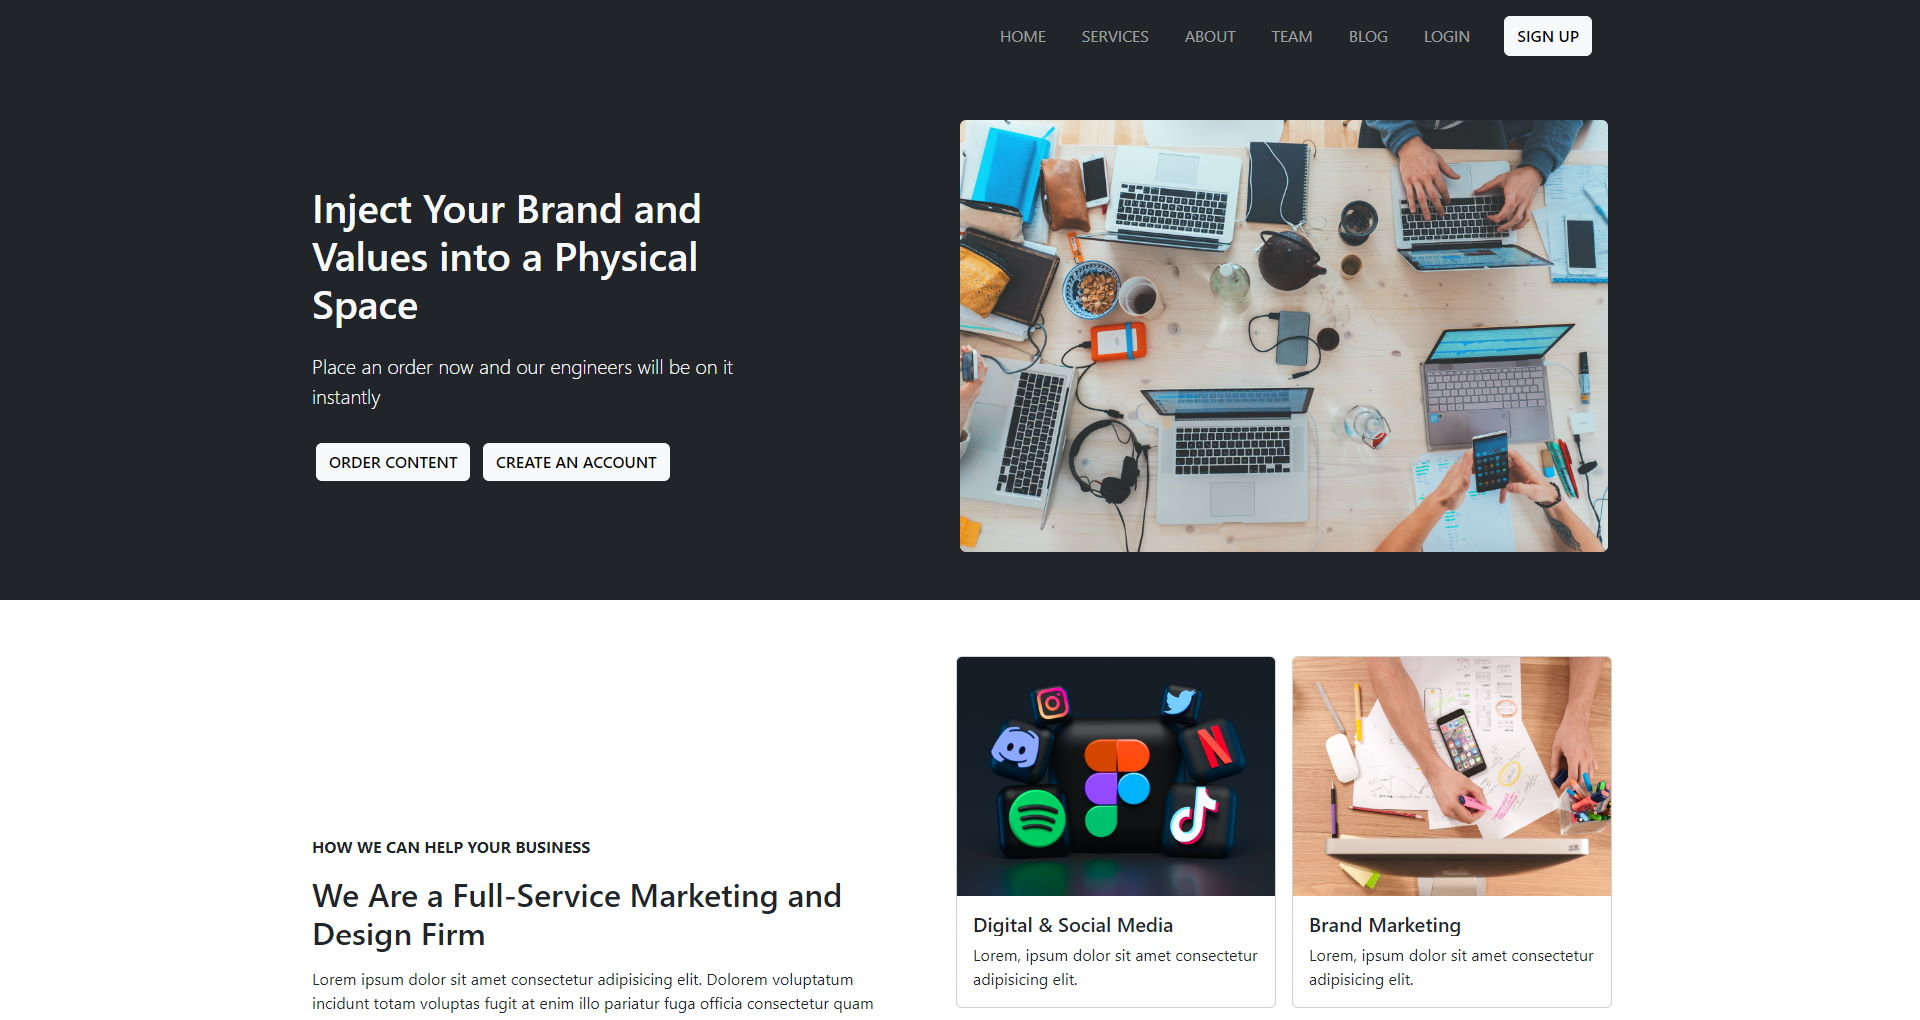
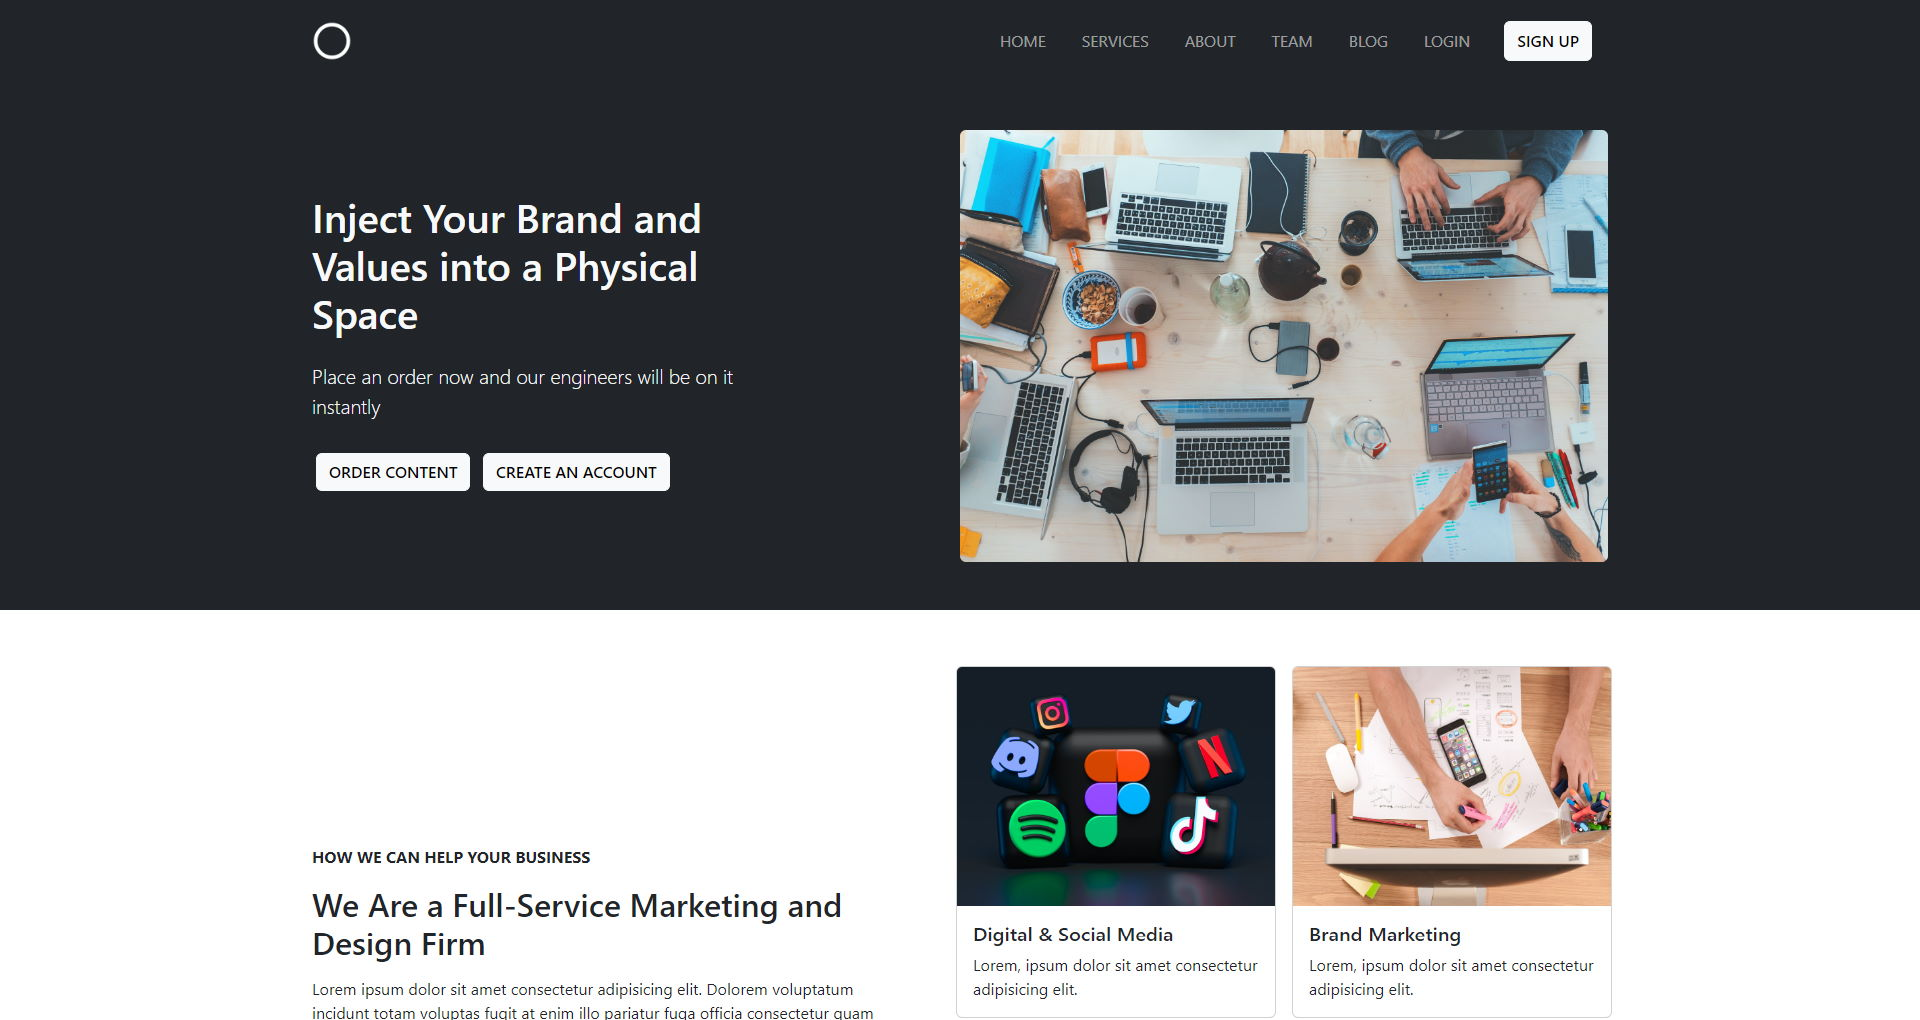
changed layout, added navbar

diff --git a/index.html b/index.html
@@ -8,11 +8,52 @@
     <link rel="preconnect" href="https://fonts.googleapis.com">
     <link rel="preconnect" href="https://fonts.gstatic.com" crossorigin>
     <link href="https://fonts.googleapis.com/css2?family=Roboto:wght@300;400;500;700&display=swap" rel="stylesheet">
+    <link rel="stylesheet" href="https://cdn.jsdelivr.net/npm/bootstrap-icons@1.9.1/font/bootstrap-icons.css">
     <link rel="stylesheet" href="style.css">
-    <base target="_blank">
+    <!-- <base target="_blank"> -->
     <link rel="shortcut icon" href="img/favicon.png" type="image/x-icon">
   </head>
   <body>
+
+    <nav class="navbar navbar-expand-lg fixed-top">
+        <div class="container-fluid">
+          <!-- <a class="navbar-brand" href="#">Navbar</a> -->
+          <button onclick="changeBG()" class="navbar-toggler bg-light" type="button" data-bs-toggle="collapse" data-bs-target="#navbarSupportedContent" aria-controls="navbarSupportedContent" aria-expanded="false" aria-label="Toggle navigation">
+            <span class="navbar-toggler-icon"></span>
+          </button>
+          <div class="collapse navbar-collapse" id="navbarSupportedContent">
+            <ul class="navbar-nav me-auto mb-2 mb-lg-0">
+              <li class="nav-item">
+                <a class="nav-link text-white" aria-current="page" href="#">Home</a>
+              </li>
+              <li class="nav-item">
+                <a class="nav-link text-white" href="#about">About</a>
+              </li>
+              <li class="nav-item">
+                <a class="nav-link text-white" href="#portfolio">Portfolio</a>
+              </li>
+              <li class="nav-item">
+                <a class="nav-link text-white" href="#contact">Contact</a>
+              </li>
+              <!-- <li class="nav-item dropdown">
+                <a class="nav-link dropdown-toggle" href="#" role="button" data-bs-toggle="dropdown" aria-expanded="false">
+                  Dropdown
+                </a>
+                <ul class="dropdown-menu">
+                  <li><a class="dropdown-item" href="#">Action</a></li>
+                  <li><a class="dropdown-item" href="#">Another action</a></li>
+                  <li><hr class="dropdown-divider"></li>
+                  <li><a class="dropdown-item" href="#">Something else here</a></li>
+                </ul>
+              </li> -->
+              <!-- <li class="nav-item">
+                <a class="nav-link disabled">Disabled</a>
+              </li> -->
+            </ul>
+          </div>
+        </div>
+    </nav>
+
     <section id="intro" class="py-5">
         <div class="container">
             <h1 class="text-center">Marko Vuković</h1>
@@ -37,49 +78,68 @@
     <section id="portfolio" class="py-5">
         <div class="container">
             <h2 class="text-center">Portfolio</h2>
+            <div id="carouselExampleControls" class="carousel slide carousel-fade" data-bs-ride="carousel">
+                <div class="carousel-inner">
+                  <div class="carousel-item active">
+                    <img src="img/marketing-crop.jpg" class="d-block w-75 mx-auto" alt="...">
+                    <div class="w-75 mx-auto py-3 infobox">
+                        <h3 class="text-center">Marketing Agency</h3>
+                        <p class="text-center">Built with HTML/CSS/Bootstrap 5</p>
+                        <button class="btn btn-primary d-block mx-auto"><a class="text-light" href="https://marketing-agency-circle.github.io/">Link to website</a></button>
+                    </div>
+                  </div>
+                  <div class="carousel-item">
+                    <img src="img/restaurant-crop.jpg" class="d-block w-75 mx-auto" alt="...">
+                    <div class="w-75 mx-auto py-3 infobox">
+                        <h3 class="text-center">Restaurant Fresco</h3>
+                        <p class="text-center">Built with Wordpress and Elementor</p>
+                        <button class="btn btn-primary d-block mx-auto"><a class="text-light" href="img/restaurant.jpg">Link to screenshot</a></button>
+                    </div>
+                  </div>
+                  <div class="carousel-item">
+                    <img src="img/diamond-crop.jpg" class="d-block w-75 mx-auto" alt="...">
+                    <div class="w-75 mx-auto py-3 infobox">
+                        <h3 class="text-center">Car Wash Diamond</h3>
+                        <p class="text-center">Built with Wordpress and Elementor</p>
+                        <button class="btn btn-primary d-block mx-auto"><a class="text-light" href="img/diamond.jpg">Link to screenshot</a></button>
+                    </div>
+                  </div>
+                  <div class="carousel-item">
+                    <img src="img/lg-crop.jpg" class="d-block w-75 mx-auto" alt="...">
+                    <div class="w-75 mx-auto py-3 infobox">
+                        <h3 class="text-center">Level Ground Gym</h3>
+                        <p class="text-center">Built with HTML/CSS</p>
+                        <button class="btn btn-primary d-block mx-auto"><a class="text-light" href="img/Level-Ground.jpg">Link to screenshot</a></button>
+                    </div>
+                  </div>
+                </div>
+                <button class="carousel-control-prev" type="button" data-bs-target="#carouselExampleControls" data-bs-slide="prev">
+                  <span class="carousel-control-prev-icon" aria-hidden="true"></span>
+                  <span class="visually-hidden">Previous</span>
+                </button>
+                <button class="carousel-control-next" type="button" data-bs-target="#carouselExampleControls" data-bs-slide="next">
+                  <span class="carousel-control-next-icon" aria-hidden="true"></span>
+                  <span class="visually-hidden">Next</span>
+                </button>
+              </div>
+        </div>
+    </section>
 
-            <div class="row justify-content-between align-items-center border bg-white">
-                <div class="col-lg-8">
-                    <img src="img/marketing-crop.jpg" alt="" class="img-fluid p-3">
-                </div>
-                <div class="col-lg-4 p-5 info text-dark text-center">
-                    <h3>Marketing Agency</h3>
-                    <p>Built with HTML/CSS/Bootstrap 5</p>
-                    <button class="btn btn-primary"><a class="text-light" href="https://marketing-agency-circle.github.io/">Link to website</a></button>
-                </div>
-            </div>
-            <div class="row justify-content-between align-items-center border bg-white">
-                <div class="col-lg-8">
-                    <img src="img/restaurant-crop.jpg" alt="" class="img-fluid p-3">
-                </div>
-                <div class="col-lg-4 p-5 info text-dark text-center">
-                    <h3>Restaurant Fresco</h3>
-                    <p>Built with Wordpress and Elementor</p>
-                    <button class="btn btn-primary"><a class="text-light" href="img/restaurant.jpg">Link to screenshot</a></button>
-                </div>
-            </div>
-            <div class="row justify-content-between align-items-center border bg-white">
-                <div class="col-lg-8">
-                    <img src="img/diamond-crop.jpg" alt="" class="img-fluid p-3">
-                </div>
-                <div class="col-lg-4 p-5 info text-dark text-center">
-                    <h3>Car Wash Diamond</h3>
-                    <p>Built with Wordpress and Elementor</p>
-                    <button class="btn btn-primary"><a class="text-light" href="img/diamond.jpg">Link to screenshot</a></button>
-                </div>
-            </div>
-            <div class="row justify-content-between align-items-center border bg-white">
-                <div class="col-lg-8">
-                    <img src="img/lg-crop.jpg" alt="" class="img-fluid p-3">
-                </div>
-                <div class="col-lg-4 p-5 info text-dark text-center">
-                    <h3>Level Ground Gym</h3>
-                    <p>Built with HTML/CSS</p>
-                    <button class="btn btn-primary"><a class="text-light" href="img/Level-Ground.jpg">Link to screenshot</a></button>
+    <section id="contact" class="py-5">
+        <div class="container">
+            <div class="col-lg-6 mx-auto">
+                <h2 class="text-center">Contact & Links</h2>
+                <div class="contact-icons d-flex w-50 mx-auto mt-3 justify-content-between">
+                    <a href="https://github.com/mvukovic95"><i class="bi bi-github"></i></a>
+                    <a href="mailto:markovukovic123@gmail.com"><i class="bi bi-envelope-fill"></i></a>
+                    <a href="https://twitter.com/mvukovic222"><i class="bi bi-twitter"></i></a>
+                    <a href="#"><i class="bi bi-discord"></i></a>
+                    <a href="https://www.linkedin.com/in/marko-vukovic-6978321b0/"><i class="bi bi-linkedin"></i></a>
                 </div>
             </div>
         </div>
     </section>
     <script src="https://cdn.jsdelivr.net/npm/bootstrap@5.2.2/dist/js/bootstrap.bundle.min.js" integrity="sha384-OERcA2EqjJCMA+/3y+gxIOqMEjwtxJY7qPCqsdltbNJuaOe923+mo//f6V8Qbsw3" crossorigin="anonymous"></script>
+    <script src="script.js"></script>
   </body>
 </html>

diff --git a/style.css b/style.css
@@ -1,3 +1,10 @@
+body::before {
+    /* fixes the fixed navbar */
+    display: block;
+    content: '';
+    height: 60px;
+}
+
 body {
     /* background */
     background-color: rgb(37, 38, 39);
@@ -11,13 +18,37 @@ body {
     font-family: 'Roboto', sans-serif;
 }
 
+.navbar {
+    background: transparent;
+}
+
 a {
     text-decoration: none;
+}
+
+i {
+    font-size: 2rem;
+    color: #fff;
+}
+
+.infobox {
+    background-color: #fff;
+    color: #000;
+}
+
+@media (max-width: 425px) {
+    .contact-icons {
+        width: 75% !important;
+    }
 }
 
 @media (max-width: 992px) {
     .info {
         padding: 20px 0 20px 0;
         text-align: center;
+    }
+    .navbar {
+        /* background-color: #000; */
+        /* fallback for script */
     }
 }

diff --git a/script.js b/script.js
@@ -1,0 +1,7 @@
+const change = document.querySelector(".navbar");
+
+function changeBG() {
+    if (change.style.background = "transparent") {
+        change.style.background = "#000";
+    }
+}
